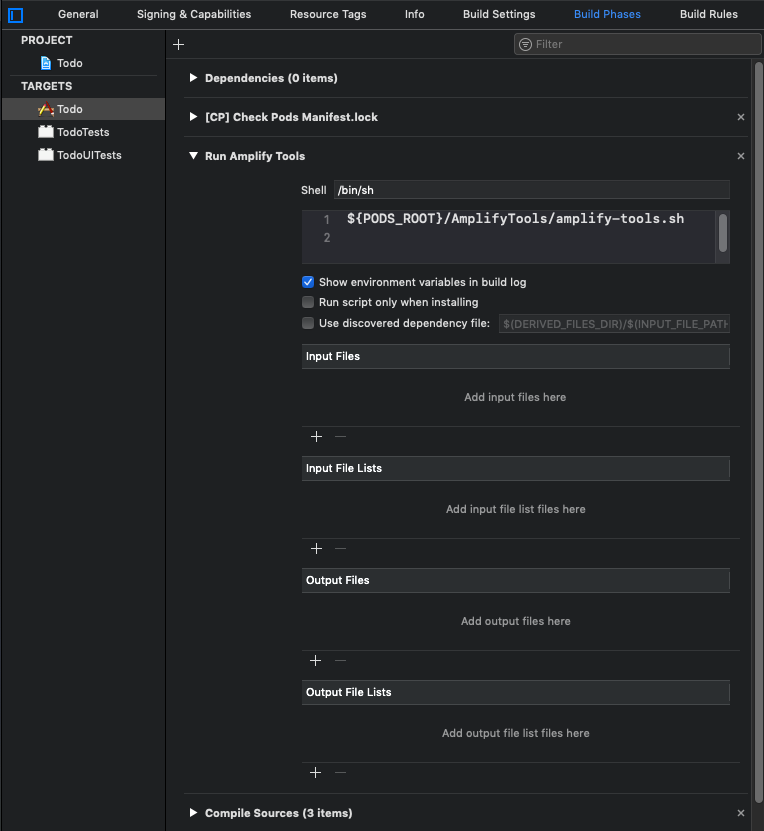
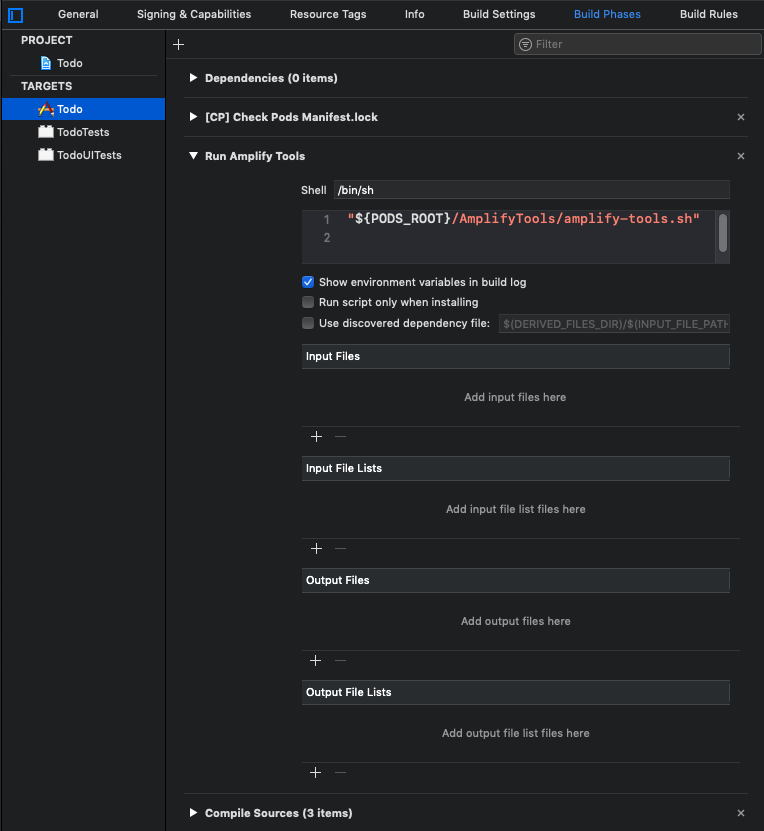
Updating setup of AmplifyTools to support space char in project

Changed region(s): [[0.9634, 0.0602, 1.0, 0.9627], [0.4516, 0.2407, 0.9031, 0.2708], [0.0, 0.1203, 0.2408, 0.1504]]

diff --git a/docs/start/getting-started/fragments/ios/native_setup.md b/docs/start/getting-started/fragments/ios/native_setup.md
@@ -91,7 +91,7 @@ We will now add AmplifyTools as a build phase in your project.
 
 1.  Update the `Run Script` build phase title to **"Run Amplify Tools"**, and then update the shell script to have a single line with:
   ```bash
-  ${PODS_ROOT}/AmplifyTools/amplify-tools.sh
+  "${PODS_ROOT}/AmplifyTools/amplify-tools.sh"
   ```
   Your project should now look like this.  Notice that the amplify tools phase comes before the Compile Sources phase.
   ![](~/images/lib/getting-started/ios/set-up-ios-amplify-tools-3.png)
